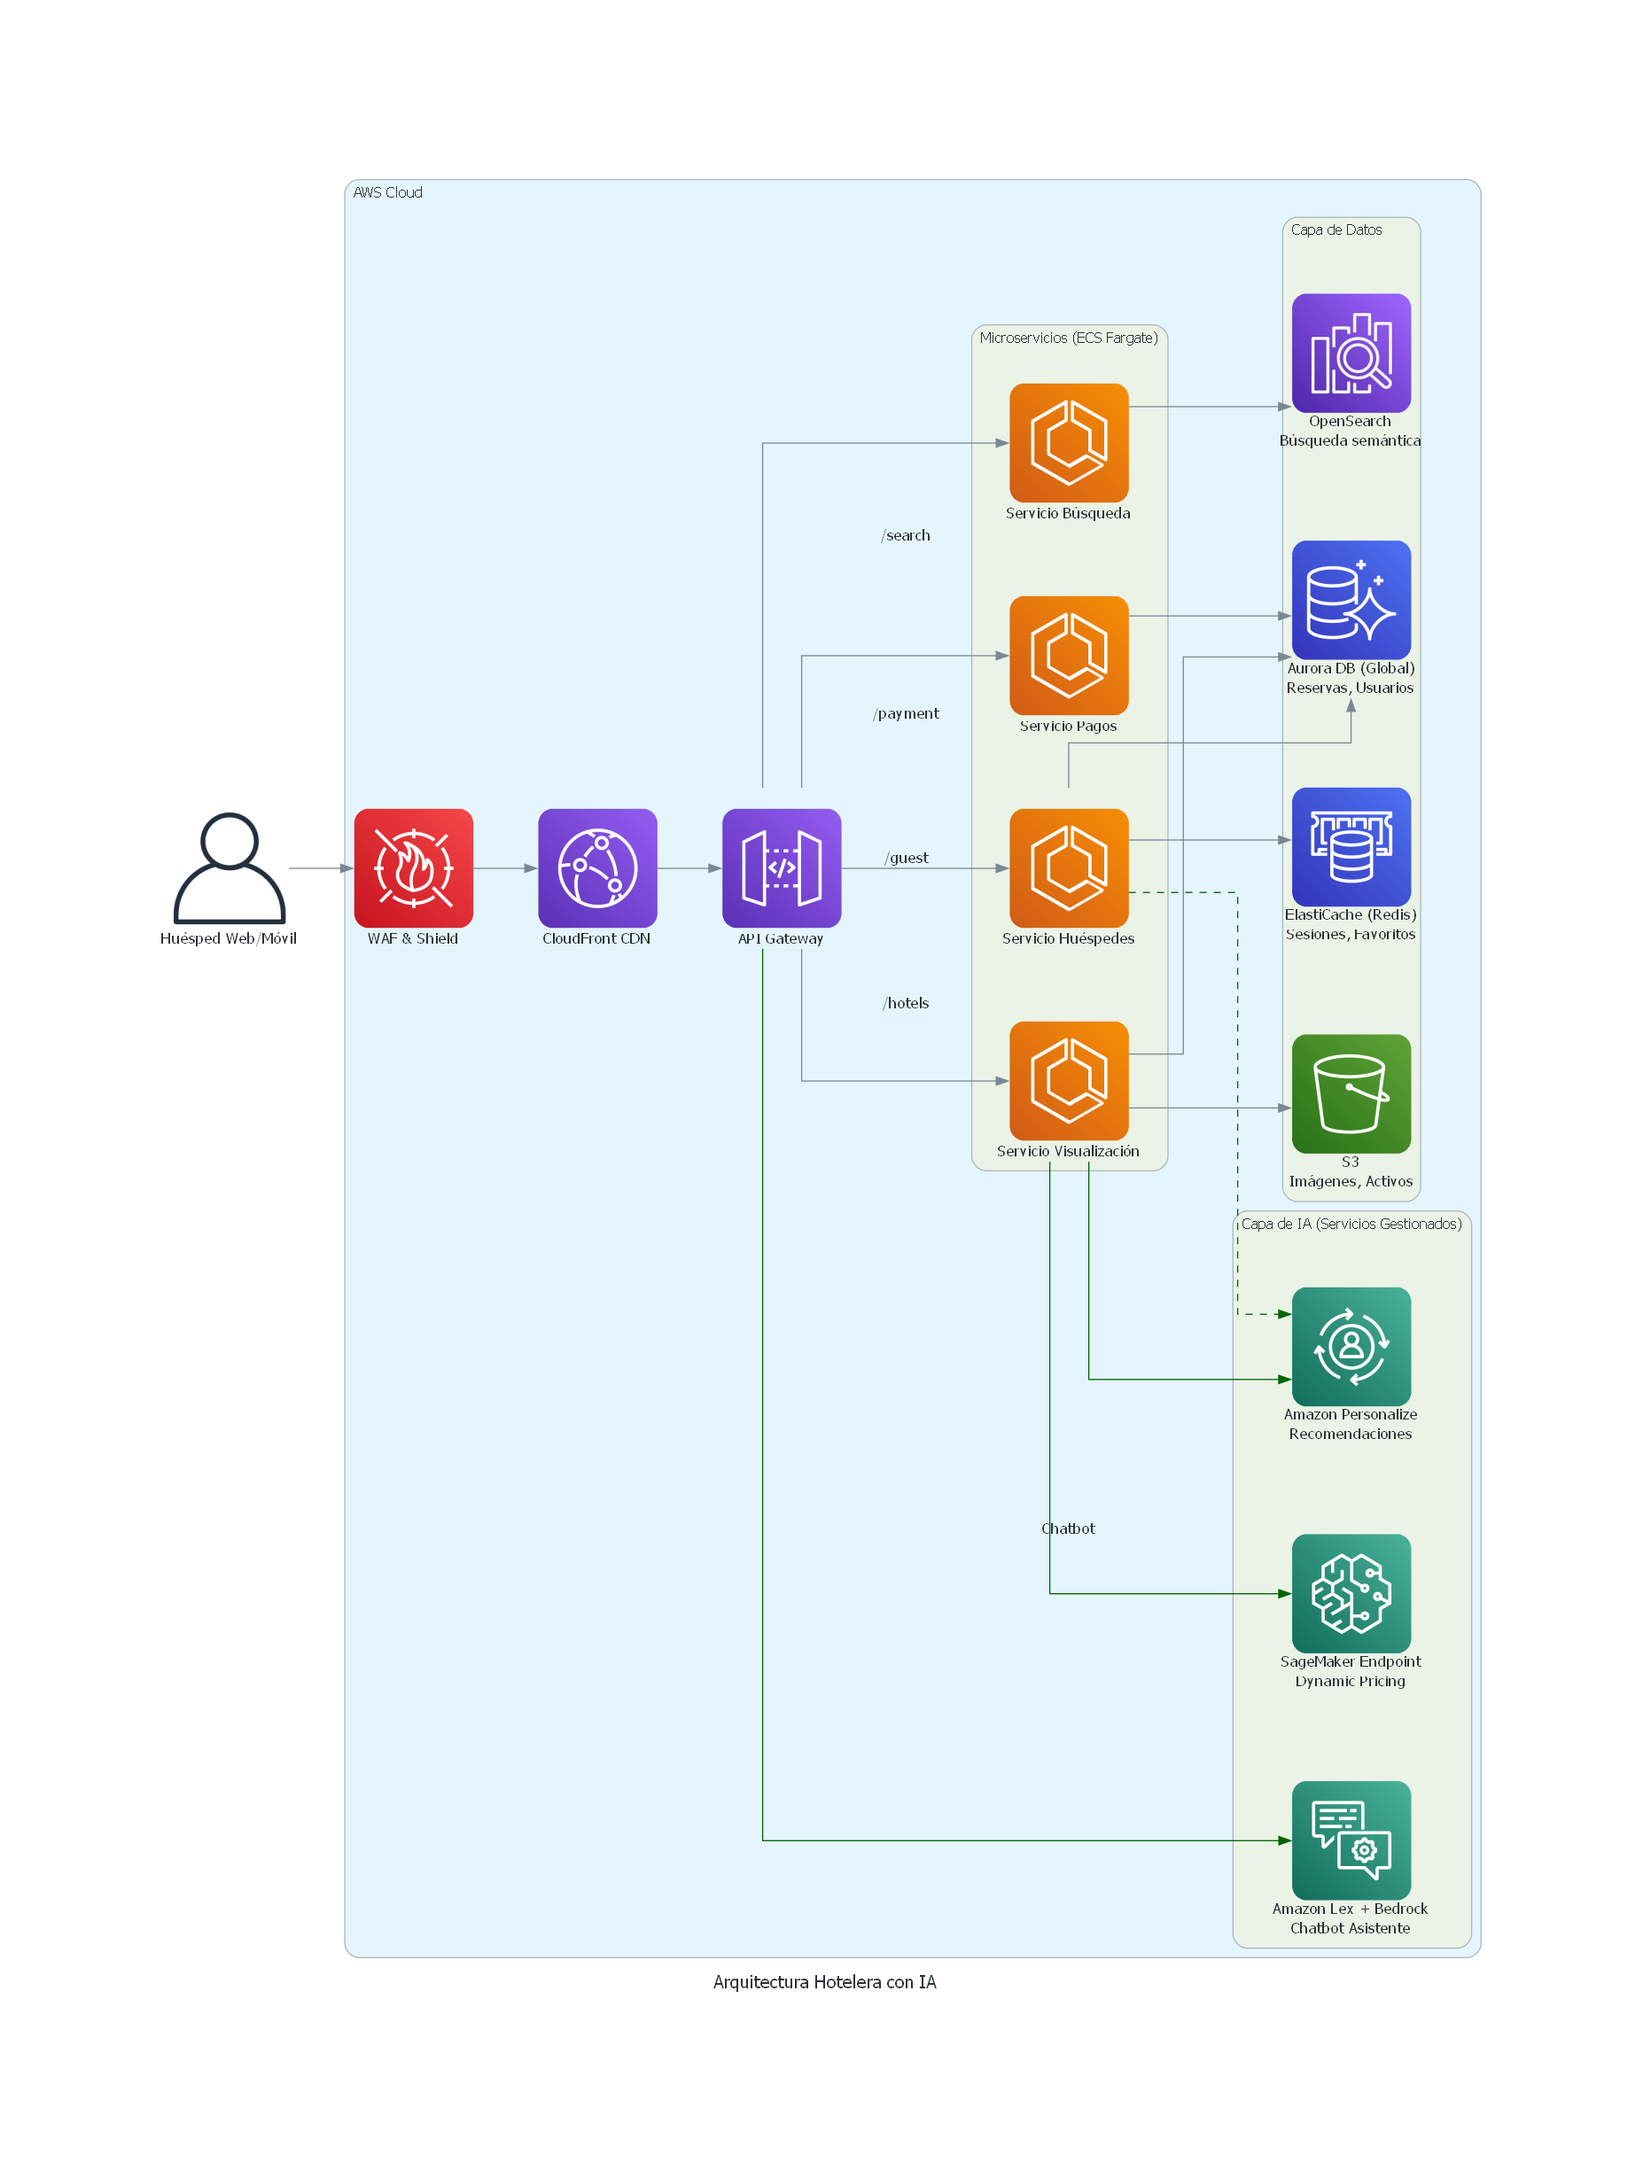
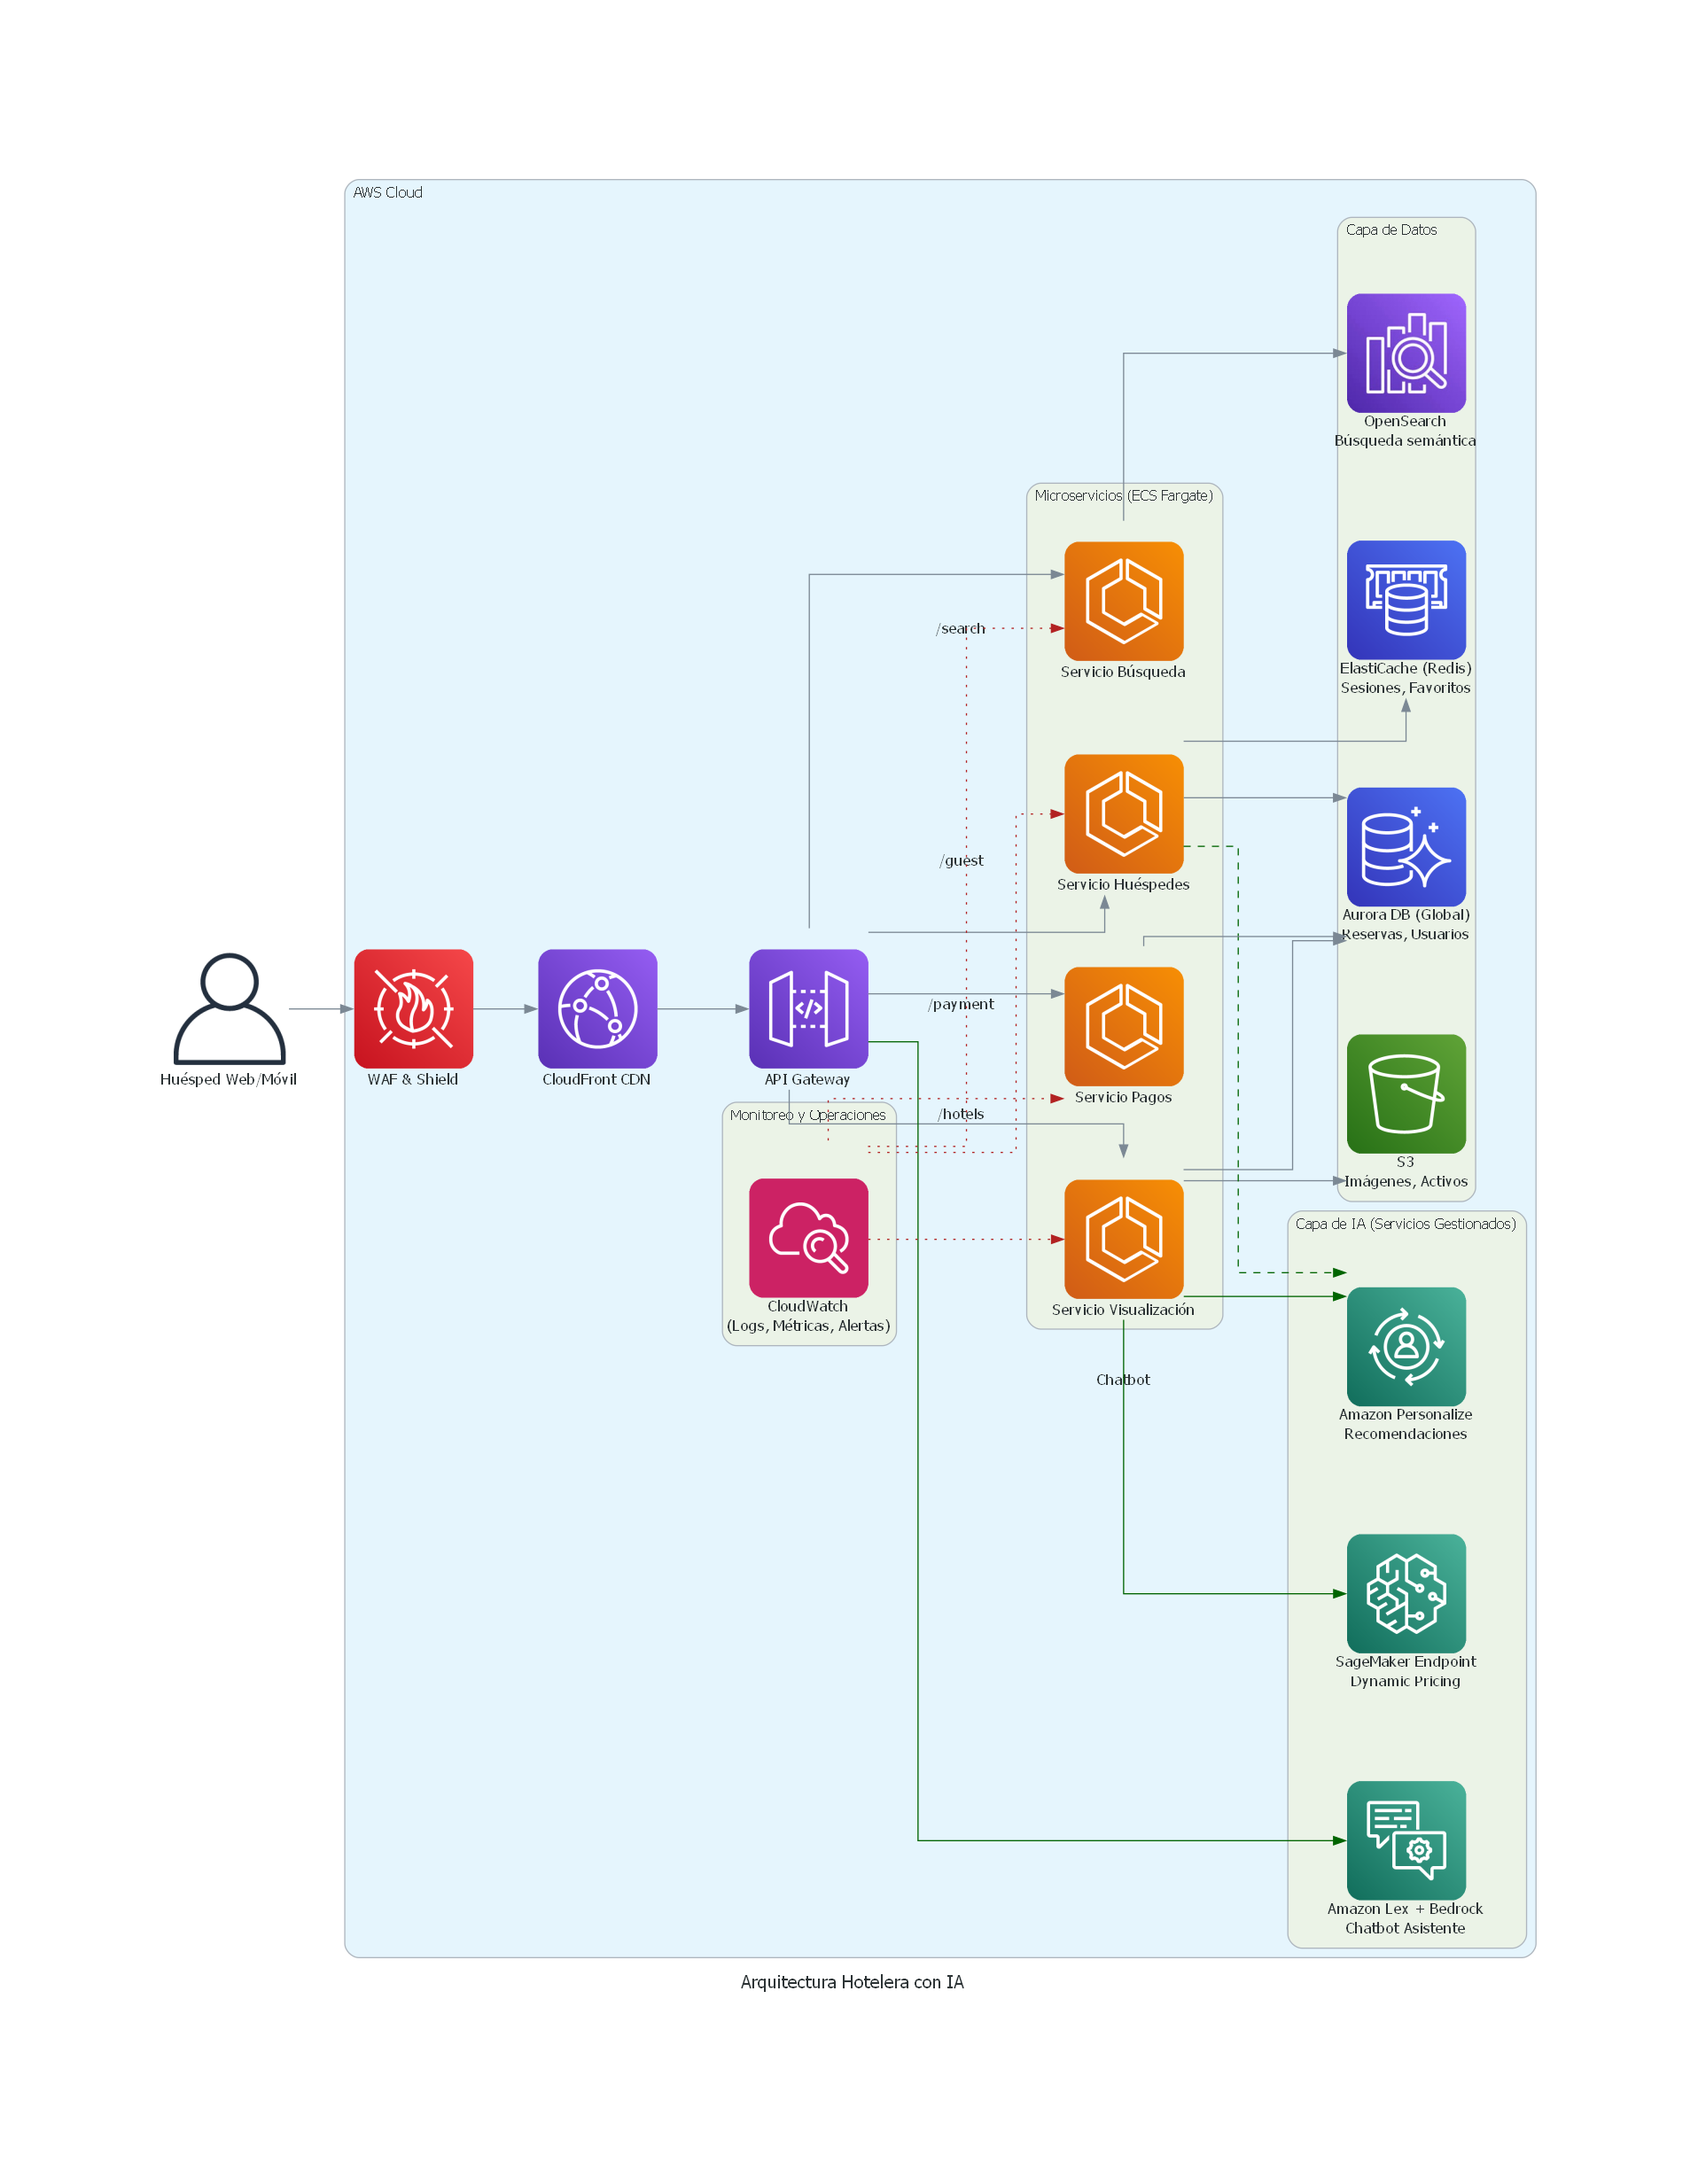
refactor: Improve README structure and add monitoring considerations; update architecture diagram with CloudWatch integration

diff --git a/exercise_3_system_design/docs/architecture/architecture_renderer.py b/exercise_3_system_design/docs/architecture/architecture_renderer.py
@@ -6,6 +6,7 @@ from diagrams.aws.analytics import AmazonOpensearchService
 from diagrams.aws.storage import S3
 from diagrams.aws.security import WAF
 from diagrams.aws.ml import Personalize, Sagemaker, Lex
+from diagrams.aws.management import Cloudwatch # <-- 1. IMPORTAMOS CLOUDWATCH
 from diagrams.onprem.client import User
 
 # Define el nombre del archivo de salida y la ruta relativa
@@ -13,7 +14,6 @@ output_filename = "docs/architecture/images/arquitectura_hotelera"
 
 with Diagram("Arquitectura Hotelera con IA", show=False, filename=output_filename, graph_attr={"bgcolor": "transparent"}):
     
-    # Creamos un nodo User
     user = User("Huésped Web/Móvil")
 
     with Cluster("AWS Cloud"):
@@ -22,20 +22,29 @@ with Diagram("Arquitectura Hotelera con IA", show=False, filename=output_filenam
         cdn = CloudFront("CloudFront CDN")
         api_gw = APIGateway("API Gateway")
         
-        # Conexión de entrada (Ahora funcionará)
         user >> waf >> cdn >> api_gw
 
         # Microservicios en ECS/Fargate
         with Cluster("Microservicios (ECS Fargate)"):
-            svc_search = ECS("Servicio Búsqueda")
-            svc_display = ECS("Servicio Visualización")
-            svc_guest = ECS("Servicio Huéspedes")
-            svc_payment = ECS("Servicio Pagos")
-            
-            api_gw >> Edge(label="/search") >> svc_search
-            api_gw >> Edge(label="/hotels") >> svc_display
-            api_gw >> Edge(label="/guest") >> svc_guest
-            api_gw >> Edge(label="/payment") >> svc_payment
+            services_group = [
+                ECS("Servicio Búsqueda"),
+                ECS("Servicio Visualización"),
+                ECS("Servicio Huéspedes"),
+                ECS("Servicio Pagos")
+            ]
+        
+        # Capa de Monitoreo
+        with Cluster("Monitoreo y Operaciones"): # <-- 2. AÑADIMOS UN CLUSTER PARA MONITOREO
+            cw = Cloudwatch("CloudWatch\n(Logs, Métricas, Alertas)")
+
+        # Conexiones principales
+        api_gw >> Edge(label="/search") >> services_group[0]
+        api_gw >> Edge(label="/hotels") >> services_group[1]
+        api_gw >> Edge(label="/guest") >> services_group[2]
+        api_gw >> Edge(label="/payment") >> services_group[3]
+        
+        # Conexión conceptual de monitoreo a los servicios
+        cw >> Edge(style="dotted", color="firebrick") >> services_group # <-- 3. CONECTAMOS CLOUDWATCH
 
         # Capa de Datos
         with Cluster("Capa de Datos"):
@@ -51,13 +60,14 @@ with Diagram("Arquitectura Hotelera con IA", show=False, filename=output_filenam
             ai_sagemaker = Sagemaker("SageMaker Endpoint\nDynamic Pricing")
 
         # Conexiones de los servicios
-        svc_search >> db_opensearch
-        svc_display >> db_aurora
-        svc_display >> storage_s3
-        svc_guest >> db_cache
-        svc_guest >> db_aurora
-        svc_payment >> db_aurora
-        svc_display >> Edge(color="darkgreen") >> ai_personalize
-        svc_display >> Edge(color="darkgreen") >> ai_sagemaker
+        services_group[0] >> db_opensearch
+        services_group[1] >> db_aurora
+        services_group[1] >> storage_s3
+        services_group[2] >> db_cache
+        services_group[2] >> db_aurora
+        services_group[3] >> db_aurora
+        
+        services_group[1] >> Edge(color="darkgreen") >> ai_personalize
+        services_group[1] >> Edge(color="darkgreen") >> ai_sagemaker
         api_gw >> Edge(label="Chatbot", color="darkgreen") >> ai_lex
-        svc_guest >> Edge(color="darkgreen", style="dashed") >> ai_personalize
+        services_group[2] >> Edge(color="darkgreen", style="dashed") >> ai_personalize

diff --git a/exercise_3_system_design/README.md b/exercise_3_system_design/README.md
@@ -1,31 +1,33 @@
 # 🏨 Propuesta de Arquitectura Cloud para Plataforma de Reservas Hoteleras
 
-## 1. Summary
+## 1. Resumen Ejecutivo
 
-En este documento describimos una arquitectura de microservicios nativa de la nube, utilizando **Amazon Web Services (AWS)**, para la migración y modernización del sitio web de gestión de reservas hoteleras. La arquitectura está diseñada para ser **globalmente rápida**, **segura**, **escalable** y contar con capacidades de **Inteligencia Artificial** para ofrecer una experiencia de usuario superior y optimizar los ingresos del negocio.
+Este documento describe una arquitectura de microservicios nativa de la nube, utilizando **Amazon Web Services (AWS)**, para la migración y modernización del sitio web de gestión de reservas hoteleras. La arquitectura está diseñada para ser **globalmente rápida**, **segura**, **escalable**, **operativamente robusta** y estar enriquecida con capacidades de **Inteligencia Artificial** para ofrecer una experiencia de usuario superior y optimizar los ingresos del negocio.
 
 ## 2. Principios de Diseño
 
 *   **☁ Nube Nativa:** Uso de servicios gestionados de AWS para minimizar la carga operativa.
 *   **🧩 Desacoplamiento:** Microservicios independientes que se pueden desarrollar, desplegar y escalar de forma autónoma.
-*   **🚀 Escalabilidad y Elasticidad:** Infraestructura que se adapta automáticamente a la demanda.
+*   **🚀 Escalabilidad y Elasticidad:** Infraestructura que se adapta automáticamente a la demanda, optimizando costos.
 *   **🔒 Seguridad por Diseño:** Seguridad integrada en cada capa, desde la red hasta la aplicación.
+*   **📊 Observabilidad:** Monitoreo y trazabilidad centralizados para una operación proactiva del sistema.
 *   **🤖 Inteligencia Integrada:** Uso proactivo de IA para mejorar la experiencia del cliente y las decisiones de negocio.
 
 ## 3. Diagrama de la Arquitectura Propuesta
 
-El siguiente diagrama ilustra la interacción entre los diferentes componentes de la solución, desde la entrada del usuario hasta las capas de datos e inteligencia artificial.
+El siguiente diagrama ilustra la interacción entre los diferentes componentes de la solución, desde la entrada del usuario hasta las capas de datos, monitoreo e inteligencia artificial.
 
 ![Arquitectura Propuesta](docs/architecture/images/arquitectura_hotelera.png)
 
-* **Nota**: Este diagrama fue utilizando python diagrams, permite crear diagramas de arquitectura de sistemas en código, en lugar de dibujarlos manualmente.
+*   **Nota**: Este diagrama fue generado utilizando la librería `diagrams` de Python, lo que permite versionar la arquitectura como código (`Diagrams as Code`).
 
 ## 4. Desglose de Componentes
 
 ### Capa de Presentación y Entrega (Frontend & Delivery)
 *   **Amazon S3:** Aloja los activos estáticos del sitio web (HTML, CSS, JS).
+    *   **Optimización de Costos:** Se utilizarán políticas de ciclo de vida para optimizar costos, moviendo automáticamente los activos menos accedidos (ej. fotos de hoteles antiguos o facturas pasadas) a clases de almacenamiento más económicas como `S3 Standard-IA` (Acceso Infrecuente) o `S3 Glacier` (Archivo).
 *   **Amazon CloudFront (CDN):** Distribuye el contenido globalmente, almacenándolo en caché cerca de los usuarios para una latencia mínima.
-*   **AWS WAF & Shield:** Protege la aplicación contra ataques web comunes (Inyección SQL, XSS).
+*   **AWS WAF & Shield:** Protege la aplicación contra ataques web comunes (Inyección SQL, XSS) a nivel de borde.
 
 ### API y Lógica de Negocio (Backend)
 *   **Amazon API Gateway:** Punto de entrada único y seguro para todas las peticiones. Gestiona la autenticación, autorización y enrutamiento a los microservicios.
@@ -38,9 +40,28 @@ El siguiente diagrama ilustra la interacción entre los diferentes componentes d
 ### Capa de Datos (Data Layer)
 *   **💾 Amazon Aurora (Global Database):** Base de datos relacional principal para datos transaccionales (reservas, usuarios). Garantiza lecturas rápidas para usuarios internacionales.
 *   **⚡ Amazon ElastiCache (Redis):** Caché en memoria para datos de acceso frecuente como sesiones y favoritos, reduciendo la carga en la base de datos principal.
-*   **🔍 Amazon OpenSearch Service:** Motor de búsqueda para indexar los datos de los hoteles y habilitar búsquedas full-text, geolocalizadas y semánticas (vector search).
+*   **🔍 Amazon OpenSearch Service:** Motor de búsqueda para indexar los datos de los hoteles y habilitar búsquedas full-text, geolocalizadas y semánticas.
+    *   **Flujo de Datos:** Nota importante: OpenSearch se alimenta de los datos de Aurora a través de un **proceso de sincronización en segundo plano** (ej. usando AWS Lambda gatillado por eventos de la base de datos). No se conecta directamente durante la petición del usuario, garantizando así un rendimiento óptimo en las búsquedas.
 
 ### Capa de Inteligencia Artificial (Factor WOW)
 *   **🧠 Amazon Personalize:** Ofrece recomendaciones de hoteles personalizadas ("Usuarios como tú también vieron...") basadas en el comportamiento del usuario.
 *   **💰 Amazon SageMaker:** Despliega modelos de Machine Learning para implementar *Dynamic Pricing*, ajustando los precios en tiempo real según la demanda y otras variables.
 *   **💬 Amazon Lex + Bedrock:** Potencia un chatbot de asistencia 24/7 que responde preguntas frecuentes y ayuda en el proceso de reserva con un lenguaje natural y fluido.
+
+## 5. Monitoreo, Alertas y Trazabilidad
+
+Una arquitectura robusta requiere una visibilidad completa de su estado y rendimiento. **Amazon CloudWatch** será el pilar central de nuestra estrategia de observabilidad.
+*   **Logs Centralizados (CloudWatch Logs):** Todos los microservicios ejecutándose en Fargate, así como otras funciones (Lambda) y servicios, enviarán sus logs a CloudWatch. Esto crea un repositorio centralizado para facilitar la depuración de errores y el análisis de comportamiento.
+*   **Métricas de Rendimiento (CloudWatch Metrics):** Se monitorearán métricas clave de todos los servicios: uso de CPU/memoria de los contenedores, latencia del API Gateway, número de conexiones a la base de datos, tiempo de respuesta de los servicios de IA, etc.
+*   **Alertas Proactivas (CloudWatch Alarms):** Se configurarán alarmas automáticas que notificarán al equipo de operaciones (vía email, Slack o PagerDuty) si alguna métrica cruza un umbral predefinido. Por ejemplo:
+    *   Alerta si la tasa de errores 5xx del API Gateway supera el 1%.
+    *   Alerta si el uso de CPU de un servicio se mantiene por encima del 80% durante más de 5 minutos.
+    *   Alerta si la latencia de la base de datos aumenta significativamente.
+
+## 6. Consideraciones de Costos
+
+La arquitectura está diseñada para ser costo-eficiente, apalancándose en el modelo de pago por uso de la nube.
+*   **Costos Variables (Pay-as-you-go):** La mayoría de los servicios de cómputo como **AWS Fargate**, **API Gateway** y **AWS Lambda** son serverless. Esto significa que solo se paga por el tiempo de cómputo que se utiliza, eliminando el costo de servidores inactivos y adaptándose perfectamente a la demanda variable del negocio.
+*   **Costos Provisionados (Siempre Activos):** Componentes como **Amazon Aurora**, **ElastiCache** y **OpenSearch** requieren capacidad provisionada y representan el costo base de la infraestructura. Para optimizar estos costos, se pueden utilizar esquemas de compra como **AWS Savings Plans** o **Instancias Reservadas**, que ofrecen descuentos significativos a cambio de un compromiso de uso a 1 o 3 años.
+*   **Almacenamiento y Transferencia:** El costo de **S3** y la transferencia de datos de **CloudFront** es bajo por GB, pero escala con el volumen. El uso inteligente de las clases de almacenamiento de S3 (como se mencionó anteriormente) es clave para mantener estos costos bajo control.
+*   **Servicios de IA:** El costo de **Personalize** y **SageMaker** se basa en el uso (horas de entrenamiento, horas de hosting del endpoint, número de recomendaciones/predicciones). Su valor se mide por el retorno de inversión que generan, como el aumento en la tasa de conversión y la optimización de los ingresos por habitación.
